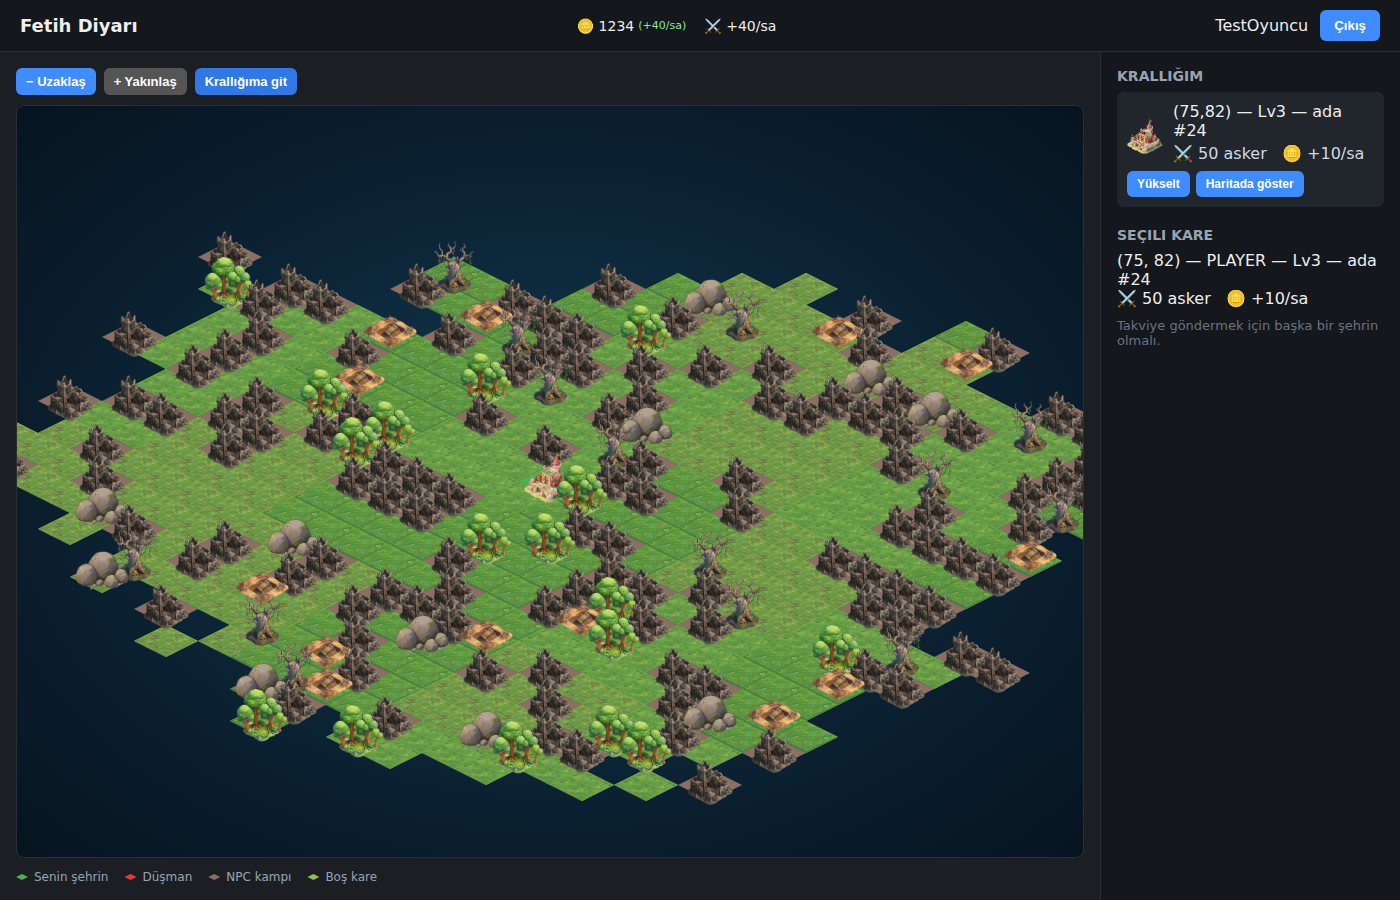
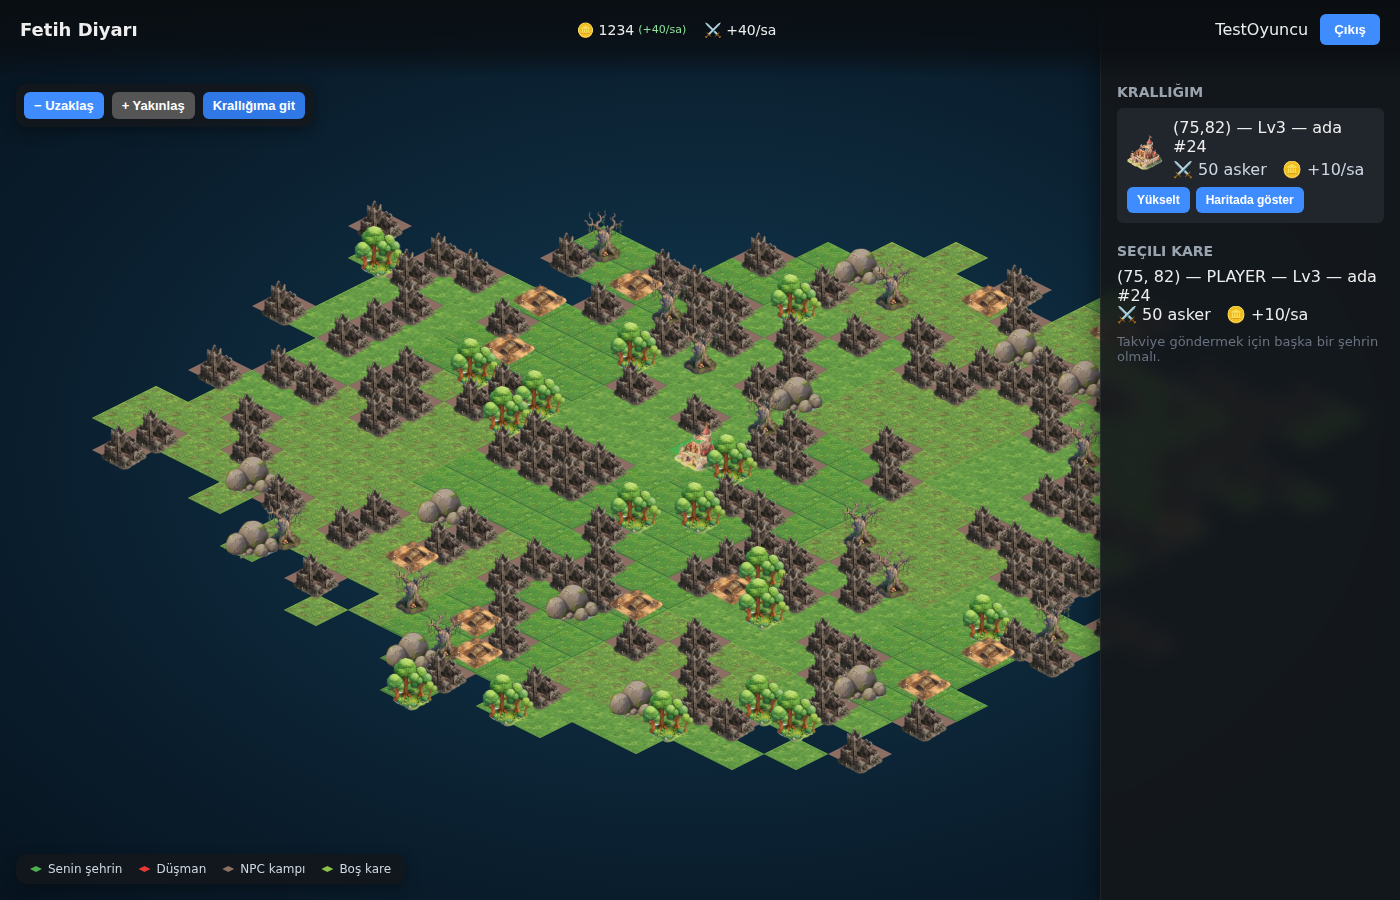
Arayuz tek pencere HUD tasarimina donusturuldu

diff --git a/client/src/App.tsx b/client/src/App.tsx
@@ -509,46 +509,18 @@ export default function App() {
 
   return (
     <div className="game-layout">
-      <header className="topbar">
-        <h1>Fetih Diyarı</h1>
-        {summary && (
-          <div className="summary-bar">
-            <span className="summary-item">🪙 {Math.floor(summary.gold)} <small>(+{summary.goldPerHour}/sa)</small></span>
-            <span className="summary-item">⚔ +{summary.troopsPerHour}/sa</span>
-          </div>
-        )}
-        <div className="player-info">
-          <span>{session.username}</span>
-          <button onClick={handleLogout}>Çıkış</button>
-        </div>
-      </header>
-
-      {message && <div className="banner success">{message}</div>}
-      {error && <div className="banner error">{error}</div>}
-
-      <div className="main-area">
-        <div className="map-wrapper">
-          <div className="map-toolbar">
-            <button onClick={() => zoomTo(Math.max(0, tileWidthIndex - 1))} disabled={tileWidthIndex === 0}>
-              − Uzaklaş
-            </button>
-            <button
-              onClick={() => zoomTo(Math.min(TILE_WIDTHS.length - 1, tileWidthIndex + 1))}
-              disabled={tileWidthIndex === TILE_WIDTHS.length - 1}
-            >
-              + Yakınlaş
-            </button>
-            {myTiles[0] && <button onClick={() => goToTile(myTiles[0])}>Krallığıma git</button>}
-          </div>
-          <div className="map-viewport" ref={viewportRef} onScroll={handleViewportScroll}>
-            <div
-              className="iso-map"
-              style={{
-                width: WORLD_SIZE * tileWidth,
-                height: WORLD_SIZE * tileHeight + tileHeight,
-              }}
-            >
-              {sortedTiles.map((tile) => {
+      {/* Harita artık tüm pencereyi kaplayan tek katman -- menü/panel bunun
+          ÜZERİNE yarı saydam "HUD" katmanları olarak biniyor (ayrı kutular
+          halinde değil, tek bütün bir oyun ekranı hissi için). */}
+      <div className="map-viewport" ref={viewportRef} onScroll={handleViewportScroll}>
+        <div
+          className="iso-map"
+          style={{
+            width: WORLD_SIZE * tileWidth,
+            height: WORLD_SIZE * tileHeight + tileHeight,
+          }}
+        >
+          {sortedTiles.map((tile) => {
                 const showCastle = tile.tileType === "PLAYER" && tileWidth >= ICON_MIN_WIDTH;
                 const showNpc = tile.tileType === "NPC" && tileWidth >= ICON_MIN_WIDTH;
                 const isMine = tile.ownerId === session.playerId;
@@ -640,13 +612,47 @@ export default function App() {
               })}
             </div>
           </div>
-          <div className="legend">
-            <span><i style={{ background: "#4caf50" }} /> Senin şehrin</span>
-            <span><i style={{ background: "#e53935" }} /> Düşman</span>
-            <span><i style={{ background: "#8d6e63" }} /> NPC kampı</span>
-            <span><i style={{ background: "#8bc34a" }} /> Boş kare</span>
+
+      <header className="topbar">
+        <h1>Fetih Diyarı</h1>
+        {summary && (
+          <div className="summary-bar">
+            <span className="summary-item">🪙 {Math.floor(summary.gold)} <small>(+{summary.goldPerHour}/sa)</small></span>
+            <span className="summary-item">⚔ +{summary.troopsPerHour}/sa</span>
           </div>
+        )}
+        <div className="player-info">
+          <span>{session.username}</span>
+          <button onClick={handleLogout}>Çıkış</button>
         </div>
+      </header>
+
+      {(message || error) && (
+        <div className="hud-banners">
+          {message && <div className="banner success">{message}</div>}
+          {error && <div className="banner error">{error}</div>}
+        </div>
+      )}
+
+      <div className="map-toolbar">
+        <button onClick={() => zoomTo(Math.max(0, tileWidthIndex - 1))} disabled={tileWidthIndex === 0}>
+          − Uzaklaş
+        </button>
+        <button
+          onClick={() => zoomTo(Math.min(TILE_WIDTHS.length - 1, tileWidthIndex + 1))}
+          disabled={tileWidthIndex === TILE_WIDTHS.length - 1}
+        >
+          + Yakınlaş
+        </button>
+        {myTiles[0] && <button onClick={() => goToTile(myTiles[0])}>Krallığıma git</button>}
+      </div>
+
+      <div className="legend">
+        <span><i style={{ background: "#4caf50" }} /> Senin şehrin</span>
+        <span><i style={{ background: "#e53935" }} /> Düşman</span>
+        <span><i style={{ background: "#8d6e63" }} /> NPC kampı</span>
+        <span><i style={{ background: "#8bc34a" }} /> Boş kare</span>
+      </div>
 
         <aside className="side-panel">
           <section>
@@ -773,7 +779,6 @@ export default function App() {
             )}
           </section>
         </aside>
-      </div>
     </div>
   );
 }

diff --git a/client/src/App.css b/client/src/App.css
@@ -80,19 +80,35 @@ button:disabled {
   color: #ff6b6b;
 }
 
+/* Oyun artık tek bütün bir pencere: harita tüm ekranı kaplıyor, üst menü/
+   sağ panel/araç çubuğu/lejant bunun ÜZERİNE yarı saydam "HUD" katmanları
+   olarak biniyor -- ayrı kutulara bölünmüş bir web sayfası yerine tek parça
+   bir oyun ekranı hissi için. */
 .game-layout {
+  position: relative;
+  width: 100vw;
   height: 100vh;
-  display: flex;
-  flex-direction: column;
+  overflow: hidden;
 }
 
 .topbar {
+  position: absolute;
+  top: 0;
+  left: 0;
+  right: 0;
+  z-index: 20;
   display: flex;
   justify-content: space-between;
   align-items: center;
-  padding: 10px 20px;
-  background: #14171b;
-  border-bottom: 1px solid #2a2f36;
+  padding: 14px 20px 32px;
+  background: linear-gradient(to bottom, rgba(10, 14, 18, 0.94) 0%, rgba(10, 14, 18, 0.75) 65%, rgba(10, 14, 18, 0) 100%);
+  pointer-events: none;
+}
+
+.topbar h1,
+.topbar .summary-bar,
+.topbar .player-info {
+  pointer-events: auto;
 }
 
 .topbar h1 {
@@ -125,9 +141,26 @@ button:disabled {
   font-size: 11px;
 }
 
+/* Bildirim/hata banner'ları artık üst menünün altında, ortada yüzen bir
+   HUD bildirimi gibi -- akışa dahil bir şerit değil. */
+.hud-banners {
+  position: absolute;
+  top: 66px;
+  left: 50%;
+  transform: translateX(-50%);
+  z-index: 30;
+  display: flex;
+  flex-direction: column;
+  gap: 6px;
+  align-items: center;
+}
+
 .banner {
   padding: 8px 16px;
   font-size: 14px;
+  border-radius: 8px;
+  box-shadow: 0 4px 14px rgba(0, 0, 0, 0.4);
+  white-space: nowrap;
 }
 
 .banner.success {
@@ -140,25 +173,18 @@ button:disabled {
   color: #ff9d9d;
 }
 
-.main-area {
-  flex: 1;
-  display: flex;
-  overflow: hidden;
-}
-
-.map-wrapper {
-  flex: 1;
-  display: flex;
-  flex-direction: column;
-  padding: 16px;
-  overflow: hidden;
-  min-width: 0;
-}
-
 .map-toolbar {
+  position: absolute;
+  top: 84px;
+  left: 16px;
+  z-index: 20;
   display: flex;
   gap: 8px;
-  margin-bottom: 10px;
+  background: rgba(20, 23, 27, 0.82);
+  backdrop-filter: blur(6px);
+  padding: 8px;
+  border-radius: 10px;
+  box-shadow: 0 4px 14px rgba(0, 0, 0, 0.35);
 }
 
 .map-toolbar button {
@@ -167,10 +193,10 @@ button:disabled {
 }
 
 .map-viewport {
-  flex: 1;
+  position: absolute;
+  inset: 0;
   overflow: auto;
-  border: 1px solid #2a2f36;
-  border-radius: 8px;
+  z-index: 0;
   /* Adalar arasındaki deniz — izometrik karolar bunun üzerine "yüzer". */
   background: radial-gradient(ellipse at center, #123a52 0%, #0a1d2c 70%, #071420 100%);
 }
@@ -221,11 +247,19 @@ button:disabled {
 }
 
 .legend {
+  position: absolute;
+  bottom: 16px;
+  left: 16px;
+  z-index: 20;
   display: flex;
   gap: 16px;
-  margin-top: 12px;
   font-size: 12px;
-  color: #9aa4af;
+  color: #cfd8e3;
+  background: rgba(20, 23, 27, 0.82);
+  backdrop-filter: blur(6px);
+  padding: 8px 14px;
+  border-radius: 10px;
+  box-shadow: 0 4px 14px rgba(0, 0, 0, 0.35);
 }
 
 .legend span {
@@ -242,11 +276,18 @@ button:disabled {
 }
 
 .side-panel {
+  position: absolute;
+  top: 0;
+  right: 0;
+  bottom: 0;
   width: 300px;
-  background: #14171b;
-  border-left: 1px solid #2a2f36;
-  padding: 16px;
+  background: rgba(20, 23, 27, 0.9);
+  backdrop-filter: blur(8px);
+  border-left: 1px solid rgba(255, 255, 255, 0.06);
+  padding: 84px 16px 16px;
   overflow-y: auto;
+  z-index: 15;
+  box-shadow: -6px 0 18px rgba(0, 0, 0, 0.35);
 }
 
 .side-panel h2 {
